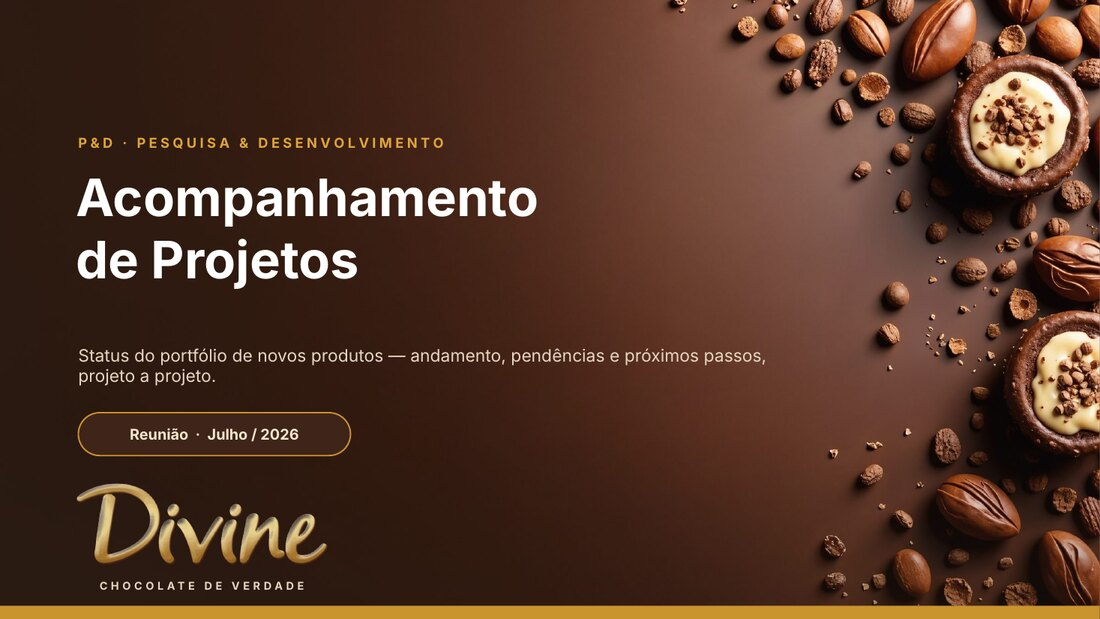
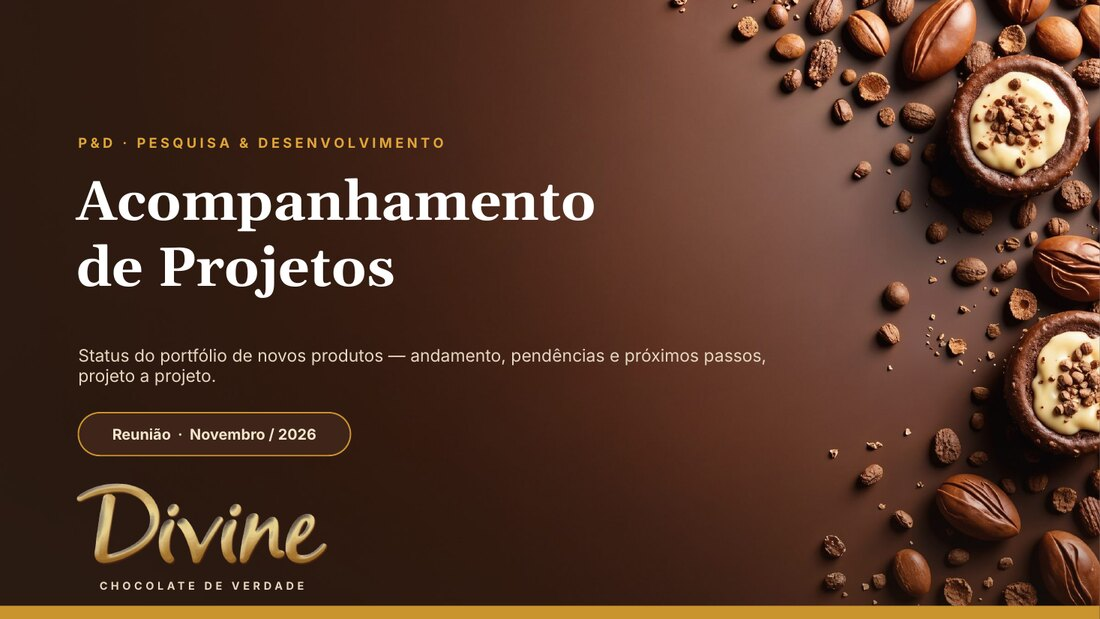
docs(readme): atualiza prints e funcionalidades da repaginada
Claude-Session: https://claude.ai/code/session_01J4WuzLuPWbPdpadmrD14Gs

Changed region(s): [[0.0618, 0.2763, 0.5564, 0.4911], [0.0927, 0.6753, 0.2782, 0.7367]]

diff --git a/README.md b/README.md
@@ -55,6 +55,11 @@ e funciona até offline.
 | ⬇ | **Gerar PowerPoint** | `.pptx` nativo, editável, com transições *fade* e entradas em cascata. Slides completos só dos projetos em andamento, mais um **resumo** dos pausados, finalizados e cancelados. |
 | 💾 | **Salvamento automático** | Os dados ficam no navegador. **Exportar/Importar dados** (JSON) serve para backup e para compartilhar. |
 | ✨ | **Animação de entrada** | A caligrafia "Divine" desenhada em dourado a cada acesso, com botão **Pular**. |
+| 📈 | **Progresso das etapas** | Barra em cada projeto da lista e selo **"X de Y concluídas"** no editor e no slide. |
+| ↩ | **Desfazer** | Removeu uma etapa, foto ou projeto sem querer? O aviso traz o botão **Desfazer**. |
+| ✅ | **Validação de datas** | Datas impossíveis (ex.: 31/02) são sinalizadas logo abaixo do campo. |
+| ♿ | **Acessível** | Contraste adequado, navegação por teclado (Tab, Enter, Alt+↑/↓ nas etapas) e foco visível. |
+| 🎨 | **Visual Divine** | Títulos em Fraunces, textos em Inter (embutidas, funcionam offline) e selects no estilo da marca. |
 
 ---
 
@@ -67,7 +72,7 @@ e funciona até offline.
 </tr>
 <tr>
 <td width="50%"><img src="docs/img/slide-3.jpg" alt="Imagens e orçamento"><br><sub><b>Imagens e orçamento</b> do produto</sub></td>
-<td width="50%"><img src="docs/img/slide-4.jpg" alt="Encerramento"><br><sub><b>Encerramento:</b> agradecimento</sub></td>
+<td width="50%"><img src="docs/img/slide-4.jpg" alt="Resumo do portfólio"><br><sub><b>Resumo:</b> pausados, finalizados e cancelados</sub></td>
 </tr>
 </table>
 
